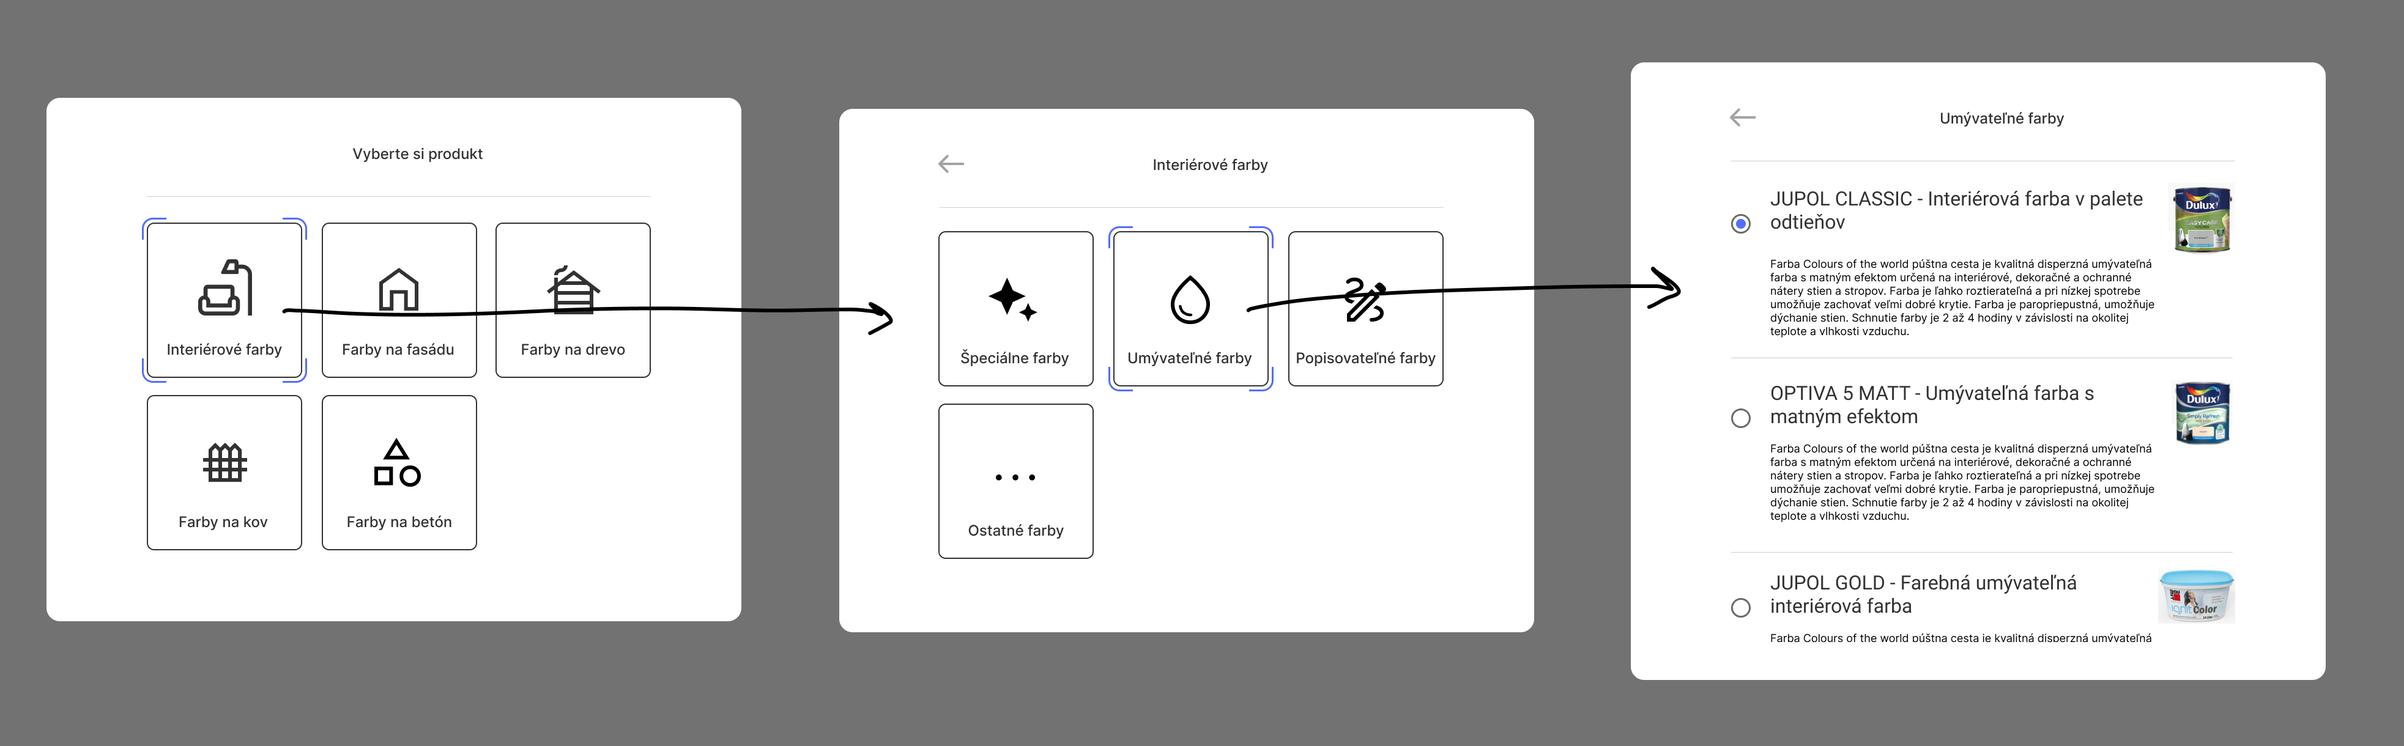
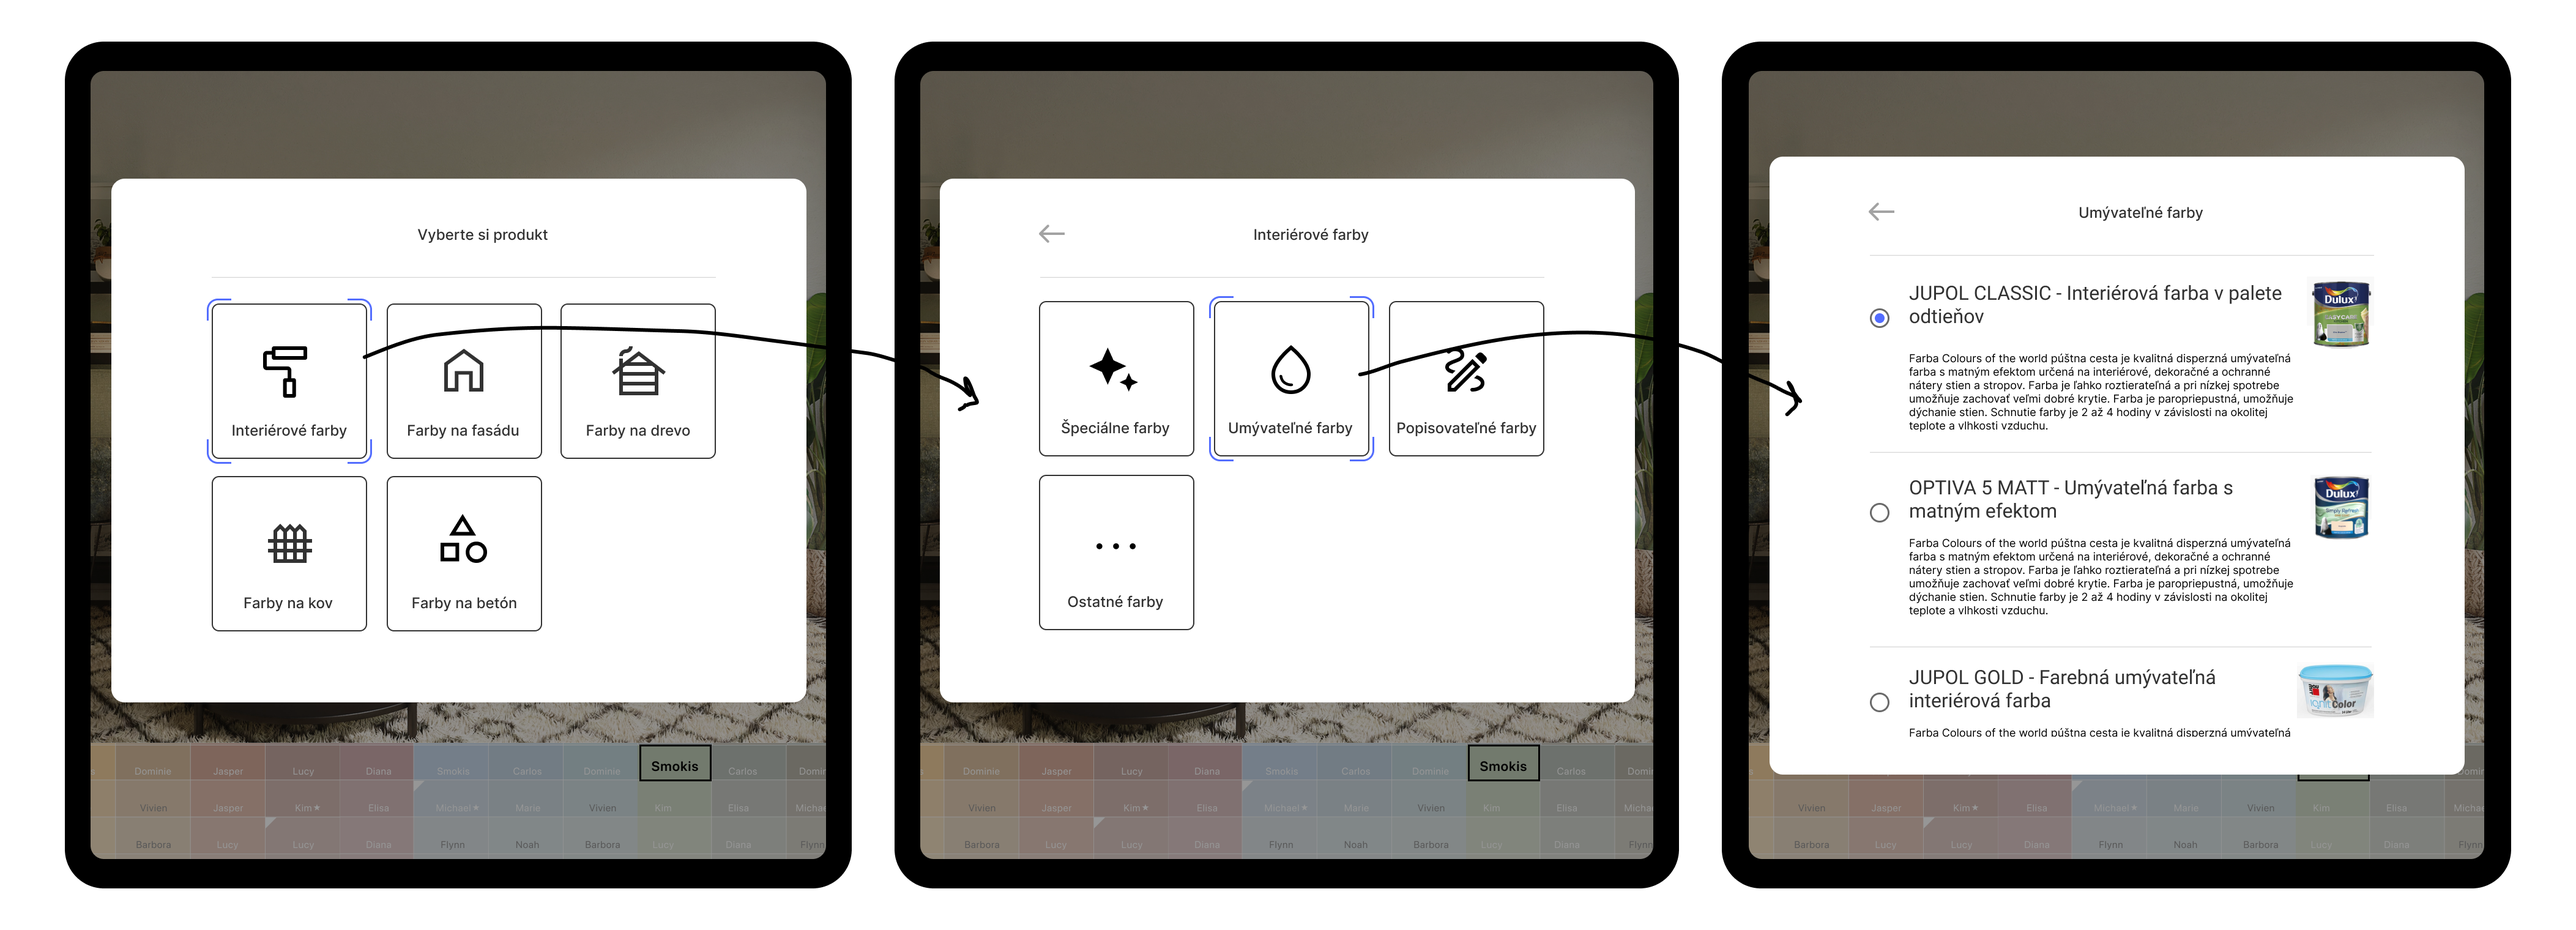
add better sample images

diff --git a/sk/product_feed/json_product_feed/README.md b/sk/product_feed/json_product_feed/README.md
@@ -3,4 +3,8 @@
 Špecifikácia produktového feedu, ktorý potrebujeme aby sme mohli zobraziť vaše farby v našej aplikácii.
 
 
+## Ukážka použitia dát v appke
 
+![plot](usage_of_products_in_the_app.png)
+
+![plot](usage_of_categories_in_the_app.png)
